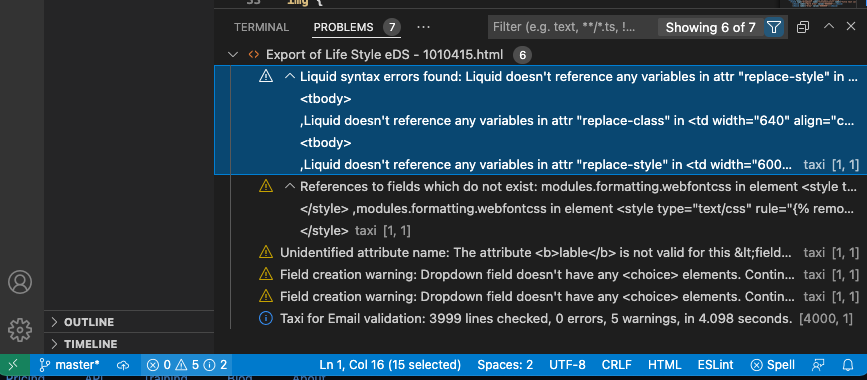
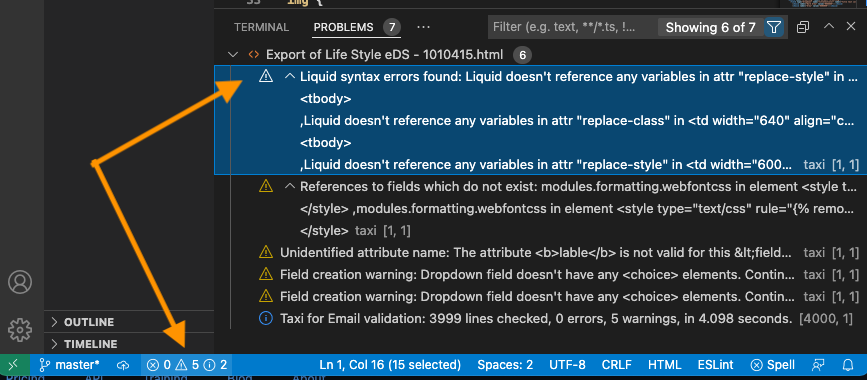
More README

diff --git a/README.md b/README.md
@@ -18,7 +18,7 @@ Start validation from the [Command Palette](https://code.visualstudio.com/docs/g
 For ease of running without going through the Command Palette each time, you can also assign the tool to a shortcut [key binding](https://code.visualstudio.com/docs/getstarted/keybindings) of your choice.
 ### Viewing the output
 
-Results are displayed in the "Problems" window. You may need to bring this to the foreground on your "View" menu. Another way is to click on the status bar area that shows a summary count of errors, warnings, and informational messages.
+Results are displayed in the "Problems" window. You may need to bring this to the foreground on your "View" menu. Another way is to click on the bottom status bar area that shows a summary count of errors, warnings, and informational messages.
 
 ![Taxi problems display](images/taxi-problems-display.png)
 
@@ -27,9 +27,9 @@ As with other language syntax checkers, the icon indicates if Taxi for Email con
 
 |Icon|Meaning|
 --|--
-ⓧ| Error
-⚠| Warning
-ⓘ| Informational
+<span style="color:red">ⓧ</span> | Error
+<span style="color:orange">⚠</span> | Warning
+<span style="color:dodgerblue">ⓘ</span>| Informational
 
 Note the Informational line the end, showing how lines of code checked, error and warning counts, and the time taken to validate. This can be enabled/disabled in [Extension Settings](#extension-settings).
 ## Requirements - API Key
